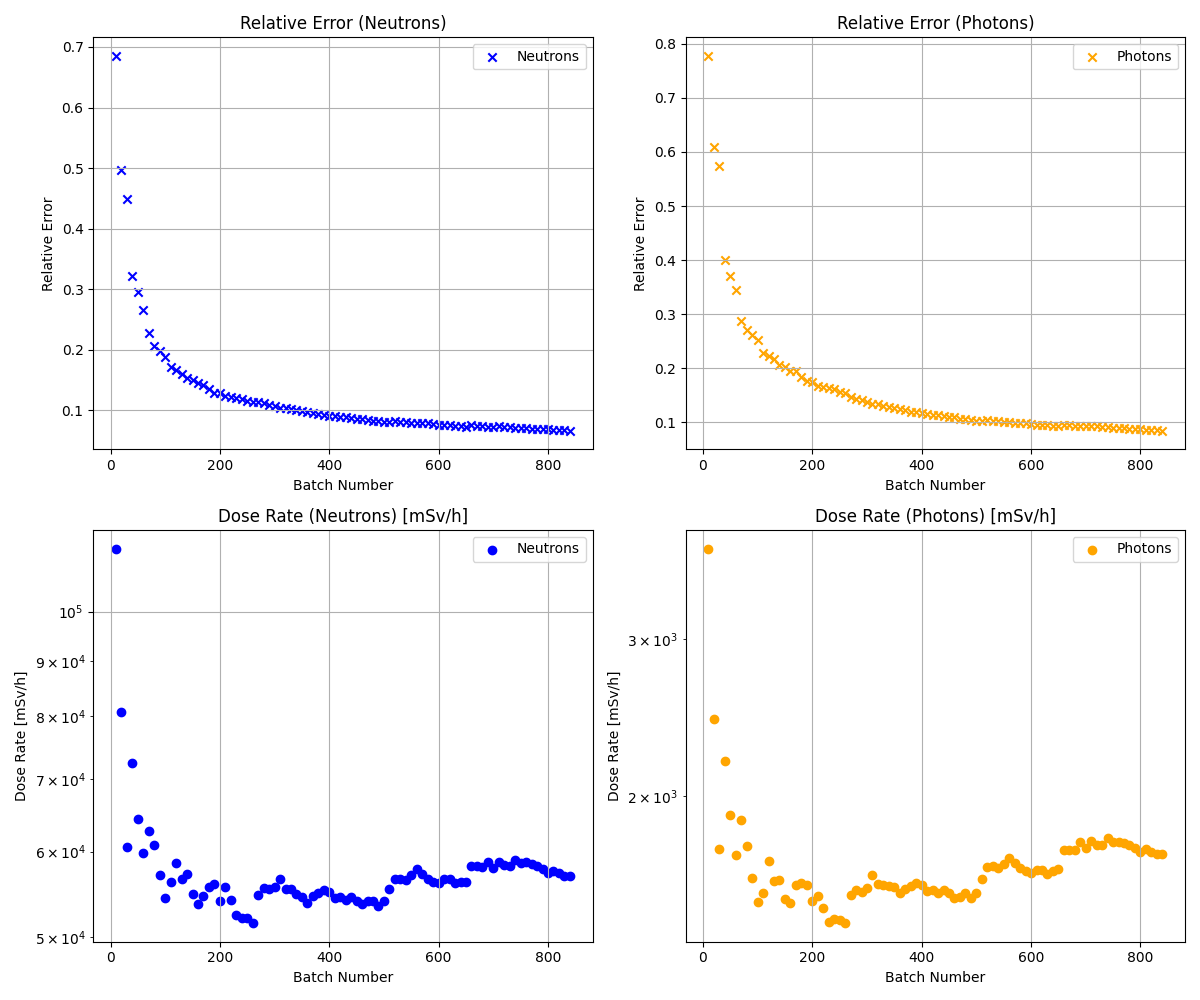
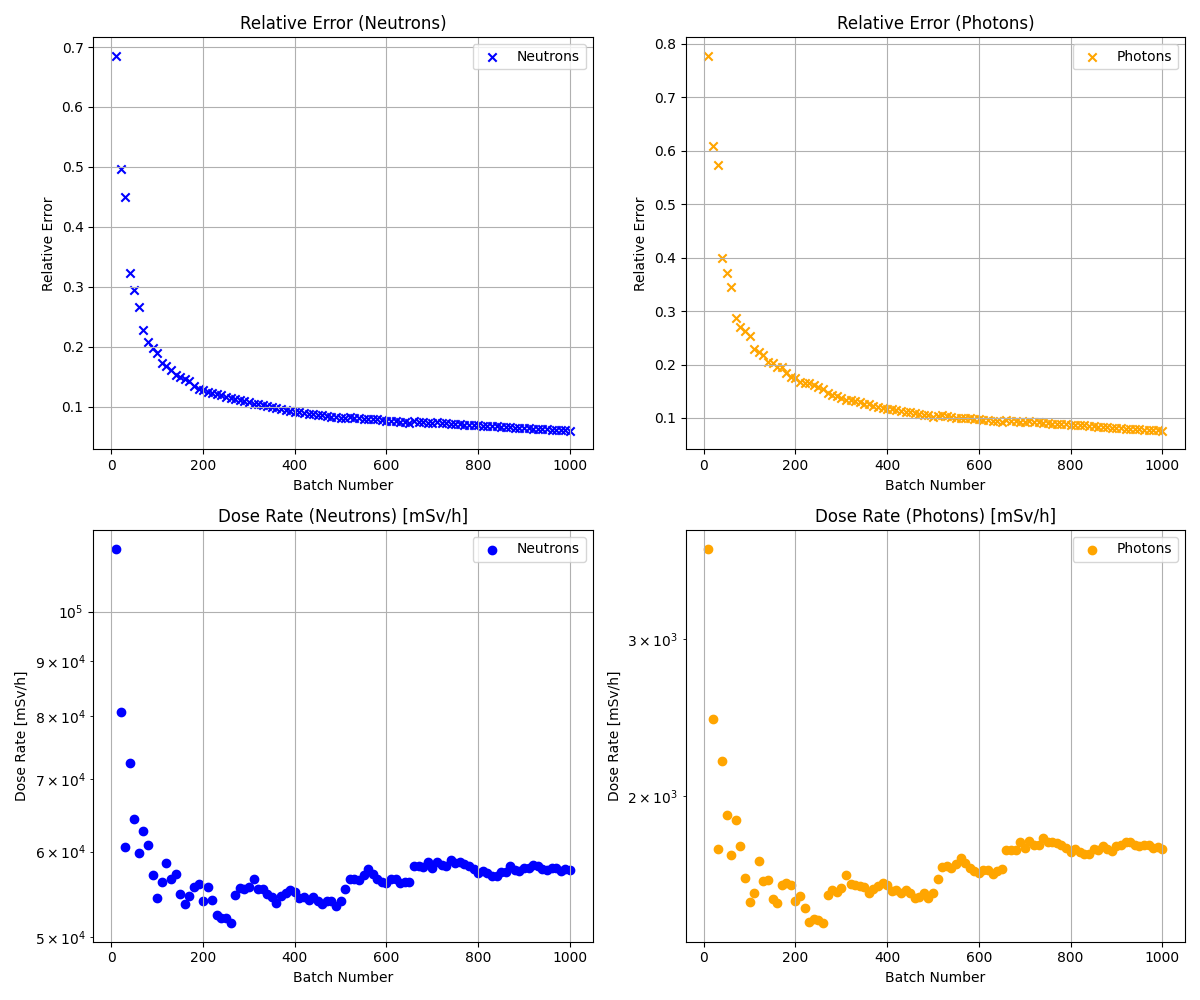
feat:add_final_results

diff --git a/src/studies/reactor_study/class_model/secondary_source/top_shielding/pilot_source.py b/src/studies/reactor_study/class_model/secondary_source/top_shielding/pilot_source.py
@@ -90,7 +90,7 @@ mesh_tally_xy_photons = mesh_tally_dose_plane(name_mesh_tally = "flux_mesh_photo
 tallys.append(mesh_tally_xy_photons)
 
 mesh_tally_xz_neutrons = mesh_tally_dose_plane(name_mesh_tally = "flux_mesh_neutrons_xz", particule_type='neutron', plane="xz",
-                                      bin_number=500, lower_left=(-600.0, -600.0), upper_right=(600.0, 600.0),
+                                      bin_number=250, lower_left=(-600.0, -600.0), upper_right=(600.0, 600.0),
                                       thickness= 10.0, coord_value=0.0)
 tallys.append(mesh_tally_xz_neutrons)
 
@@ -119,3 +119,5 @@ tallys.export_to_xml()
 remove_previous_results(batches_number=batches_number)
 
 openmc.run()
+
+remove_intermediate_files()

diff --git a/src/studies/reactor_study/class_model/secondary_source/top_shielding/post.py b/src/studies/reactor_study/class_model/secondary_source/top_shielding/post.py
@@ -19,7 +19,7 @@ os.environ["OPENMC_CROSS_SECTIONS"] = PATH_TO_CROSS_SECTIONS
 
 material_dict["FUEL_UO2_MATERIAL"].remove_element("U")
 
-statepoint = openmc.StatePoint(f"statepoint.0630.h5")
+statepoint = openmc.StatePoint(f"statepoint.1000.h5")
 
 results_path = "simulation_results.json"
 with open(results_path, "r") as f:
